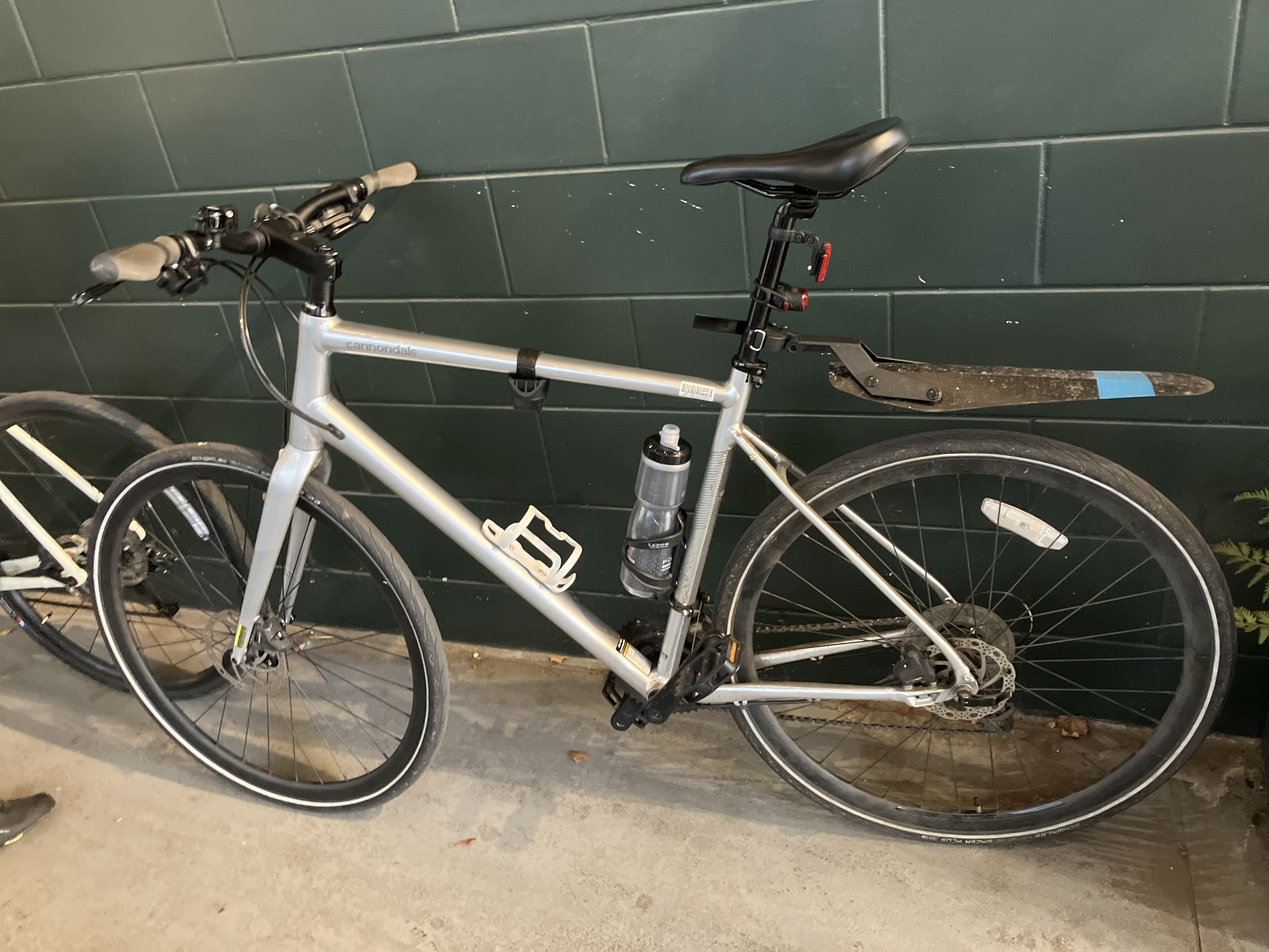
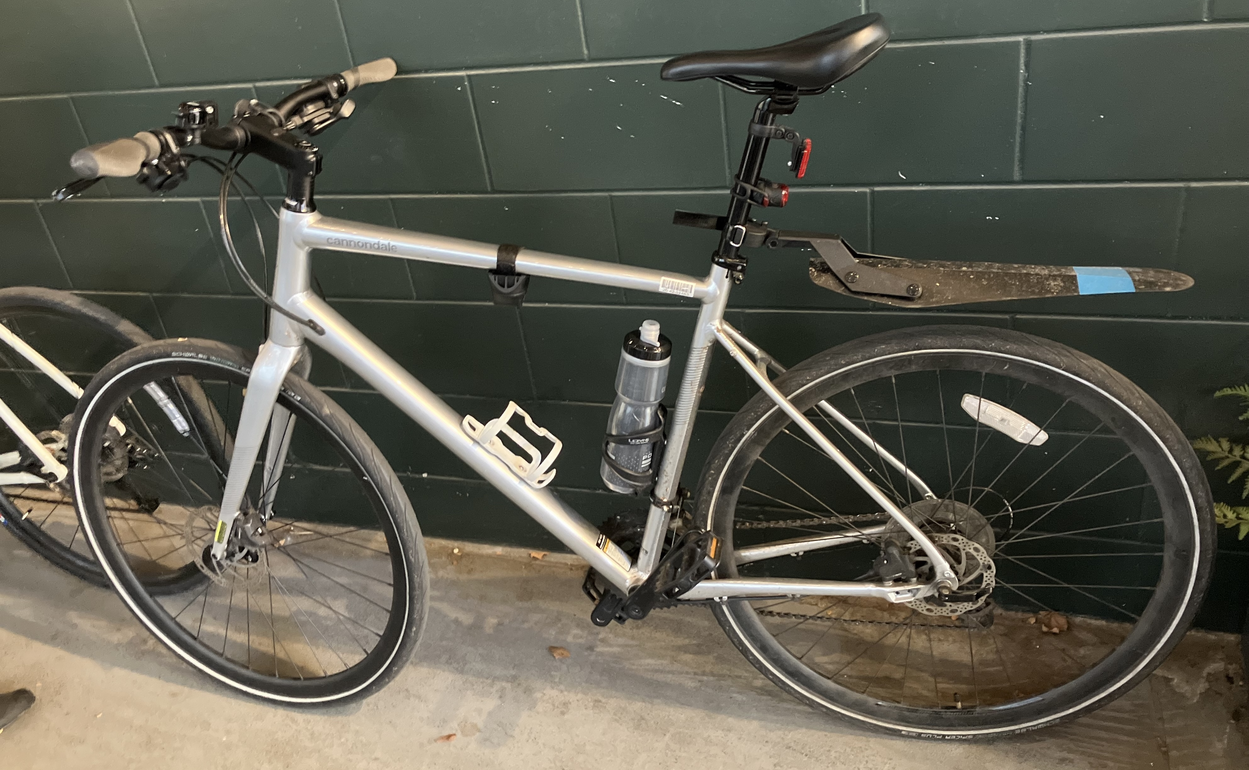
added styling for color, crop and add two bikes

diff --git a/src/App.jsx b/src/App.jsx
@@ -23,13 +23,13 @@ export default function App() {
             defaultProps: {
               radius: "lg",     // bigger rounded corners
               shadow: "sm",
-              withBorder: true,
               padding: "sm",
+              withBorder: true,
             },
             styles: (theme) => ({
               root: {
-                borderRadius: theme.radius.lg,   // ensures radius applies even if inline styles exist
-                borderColor: "#444",
+                borderRadius: theme.radius.md,   // ensures radius applies even if inline styles exist
+                borderColor: "#BB2528",
                 borderWidth: 2,
                 borderStyle: "solid",
                 overflow: "hidden",
@@ -42,7 +42,20 @@ export default function App() {
       <Container size="md">
         <Header user={user} setUser={setUser} setGamesUnlocked={setGamesUnlocked} />
         <SelfieCarousel />
-        <Accordion>
+        <Accordion 
+          variant="contained"
+          styles={{
+            item: {
+              borderColor: "#BB2528",
+            },
+            control: {
+              color: "#BB2528",
+            },
+            chevron: {
+              color: "#BB2528",
+            },
+          }}
+        >
           {/* Superlatives – ALWAYS visible */}
           <Accordion.Item value="superlatives">
             <Accordion.Control>

diff --git a/src/components/BikeMatchGame.jsx b/src/components/BikeMatchGame.jsx
@@ -5,8 +5,8 @@ import { useDroppable, DndContext, closestCenter, PointerSensor, useSensor, useS
 import { SortableContext, useSortable, verticalListSortingStrategy } from '@dnd-kit/sortable';
 import { CSS } from '@dnd-kit/utilities';
 
-const total = 18 // TODO: Change to 19
-const riders = ["Alex","Andrew","Anna","Apple","Ben Law","Ben Lin","Conor","Constance","David M","Hardy","Jarrett","Josh","Katie","Nick","Sarah","Sten","Tim","Vignesh","Wenbo"];
+const total = 20
+const riders = ["Alex","Andrew","Anna","Apple","Ben Law","Ben Lin","Conor","Constance","David M","David K", "Hardy","Jarrett","Josh","Katie","Nick","Sarah","Sten","Tim","Vignesh","Wenbo"];
 const entryIds = {
   "bike-01": "entry.2118217753",
   "bike-02": "entry.1022906453",
@@ -26,14 +26,14 @@ const entryIds = {
   "bike-16": "entry.1257218392",
   "bike-17": "entry.455800163",
   "bike-18": "entry.1418443655",
-  "bike-19": "entry.1502225423", // To be Nick
-  // "bike-20": "entry.2066368981",
+  "bike-19": "entry.1502225423",
+  "bike-20": "entry.2066368981",
 };
 
 const solution = [ "Josh", "Ben Lin", "David M", "Katie", "Andrew", 
   "Ben Law", "Anna", "Apple", "Alex", "Wenbo", 
   "Jarrett", "Sten", "Sarah", "Vignesh", "Hardy", 
-  "Constance", "Conor", "Tim", "Nick"
+  "Constance", "Conor", "Tim", "Nick", "David K"
 ]
 
 function SortableName({ id, label, disabled }) {

diff --git a/src/components/Header.jsx b/src/components/Header.jsx
@@ -1,12 +1,28 @@
-import { useState } from "react";
+import { useState, useEffect } from "react";
 import { TextInput, Button, Group, Title , Text} from "@mantine/core";
 import "./Header.css";
 
 export default function Header({ user, setUser, setGamesUnlocked }) {
   const [localName, setLocalName] = useState(user.name || "");
 
+  // Load from localStorage on first render
+  useEffect(() => {
+    const storedName = localStorage.getItem("name");
+    if (storedName) {
+      setLocalName(storedName);
+    }
+  }, []);
+
+  // Save to localStorage whenever name changes
+  useEffect(() => {
+    if (localName) {
+      localStorage.setItem("name", localName);
+    }
+  }, [localName]);
+
   const handleSubmit = () => {
     setUser((prev) => ({ ...prev, name: localName }));
+
     setGamesUnlocked(true);
   };
 
@@ -39,10 +55,12 @@ export default function Header({ user, setUser, setGamesUnlocked }) {
       )}
 
       {user.name && (
-        <Title order={2} mt="md" style={{ color: "red" }}>
+        <Title order={2} mt="md" c="#BB2528">
           Welcome, {user.name}!
         </Title>
       )}
+
+      
     </div>
   );
 }

diff --git a/src/components/Header.css b/src/components/Header.css
@@ -6,11 +6,11 @@
 /* Y2K shiny gradient */
 .y2k-title {
   font-family: "Comic Sans MS", "Arial Rounded MT Bold", sans-serif;
-  background: linear-gradient(90deg, #ff0073, #00eaff, #00ff51);
+  background: linear-gradient(90deg, #EA4630, #00eaff, #146B3A);
   background-clip: text;
   -webkit-background-clip: text;
   color: transparent;
-  text-shadow: 0 0 8px #ffeec5, 0 0 15px #aa103c;
+  text-shadow: 0 0 8px #ffeec5, 0 0 15px #BB2528;
   font-size: 4rem;
   font-weight: 900;
 }
@@ -45,7 +45,6 @@
 /* Optional glowy input field */
 .name-input input {
   border-radius: 12px;
-  border: 2px solid #ffe600;
-  background-color: #111;
-  color: #ffe600;
+  border: 2px solid #BB2528;
+  color: #BB2528;
 }

diff --git a/src/components/Footer.jsx b/src/components/Footer.jsx
@@ -3,7 +3,10 @@ export default function Footer() {
 return (
     <Card mt="xl" p="md" radius="lg">
         <Text size="sm" style={{marginLeft: "15px", marginRight: "15px", marginBottom: "24px"}}>
-            Thanks for joining us for the ride! Can't wait to see you at the next one! 🚴♀
+            It has been an amazing year of riding, coffee, and good times! Thank you all  for being part of TBD for joining us for the ride!
+            <br/>
+            Have a joyful holiday season and there will be plenty of rides and miles for us in 2026!
+            Can't wait to see you all soon! 🚴♀
         </Text>
     </Card>
 );

diff --git a/src/components/Superlatives.jsx b/src/components/Superlatives.jsx
@@ -13,8 +13,8 @@ export default function Superlatives() {
     "Most likely to peel off early",
     "Most weather proof",
     "Biggest spender at a coffee shop",
-    "Most likely to forget to start their strava",
-    "Best ride in Worst Conditions",
+    "Most likely to forget to start their Strava",
+    "Best ride in worst conditions",
     "Most Scenic Ride",
   ];
 

diff --git a/index.html b/index.html
@@ -4,7 +4,7 @@
     <meta charset="UTF-8" />
     <link rel="icon" type="image/svg+xml" href="/vite.svg" />
     <meta name="viewport" content="width=device-width, initial-scale=1.0" />
-    <title>my-app</title>
+    <title>TBDParty!</title>
   </head>
   <body>
     <div id="root"></div>

diff --git a/src/index.css b/src/index.css
@@ -16,11 +16,11 @@
 
 a {
   font-weight: 500;
-  color: #646cff;
+  color: #BB2528;
   text-decoration: inherit;
 }
 a:hover {
-  color: #535bf2;
+  color: #BB2528;
 }
 
 body {
